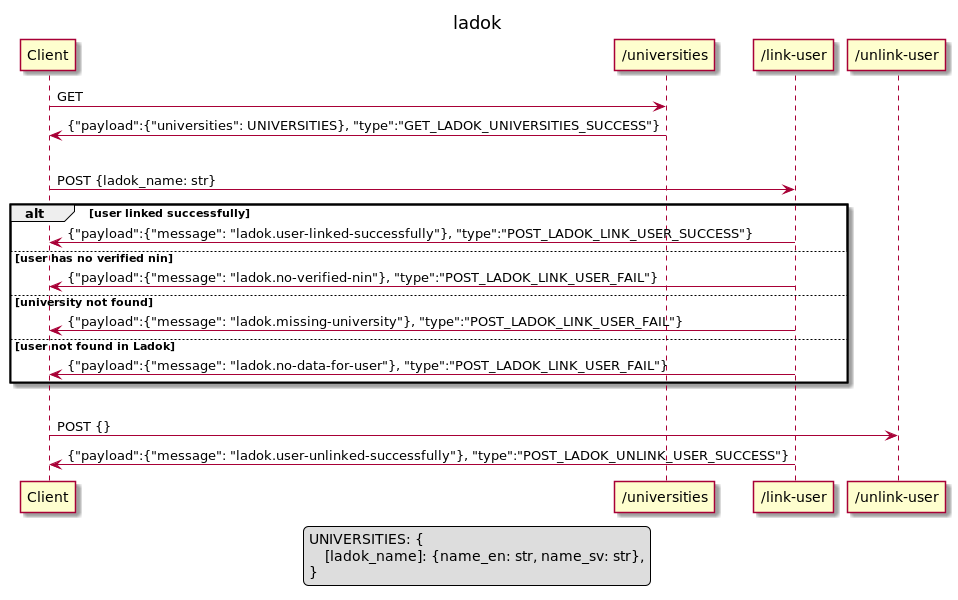
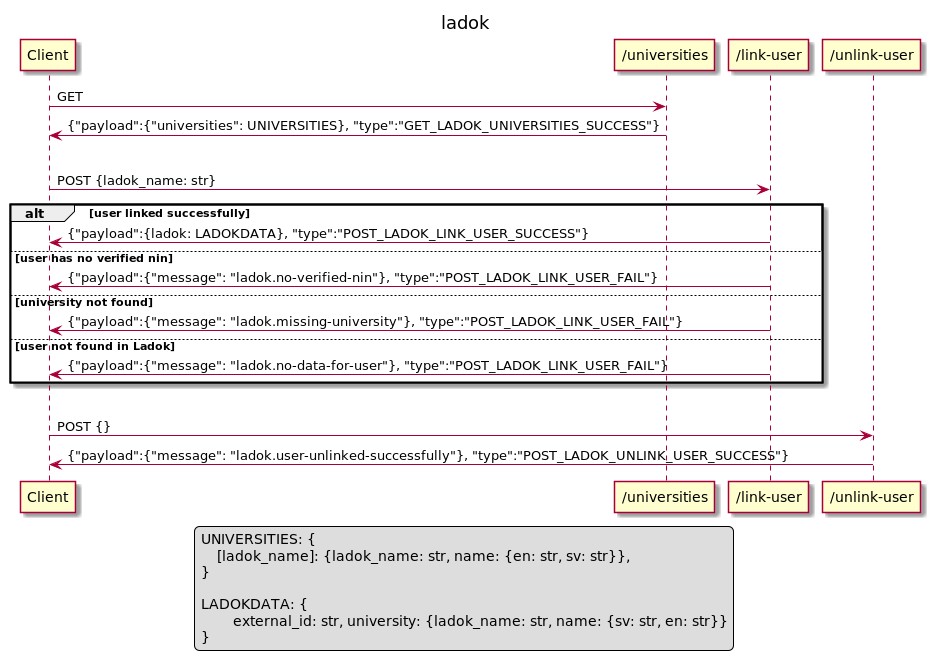
tweak ladok datamodels

Changed region(s): [[0.0, 0.03, 0.9946, 0.99], [0.4662, 0.03, 0.5284, 0.06]]

diff --git a/src/eduid/webapp/ladok/tests/test_app.py b/src/eduid/webapp/ladok/tests/test_app.py
@@ -1,13 +1,12 @@
 # -*- coding: utf-8 -*-
 import json
+from flask import Response
 from typing import Any, Dict, List, Mapping, Optional
 from unittest.mock import patch
 from uuid import UUID, uuid4
 
-from flask import Response
-
 from eduid.common.config.base import EduidEnvironment
-from eduid.userdb.ladok import Ladok, University
+from eduid.userdb.ladok import Ladok, University, UniversityName
 from eduid.webapp.common.api.testing import EduidAPITestCase
 
 __author__ = 'lundberg'
@@ -15,7 +14,6 @@ __author__ = 'lundberg'
 from eduid.webapp.ladok.app import LadokApp, init_ladok_app
 from eduid.webapp.ladok.client import Error, LadokUserInfo, LadokUserInfoResponse
 from eduid.webapp.ladok.helpers import LadokMsg
-from eduid.webapp.ladok.settings.common import LadokConfig
 
 
 class MockResponse(object):
@@ -98,8 +96,8 @@ class LadokTests(EduidAPITestCase):
             response = browser.get('/universities')
         expected_payload = {
             'universities': {
-                'ab': {'name_en': 'University Name', 'name_sv': 'Lärosätesnamn'},
-                'cd': {'name_en': 'Another University Name', 'name_sv': 'Annat Lärosätesnamn'},
+                'ab': {'ladok_name': 'ab', 'name': {'en': 'University Name', 'sv': 'Lärosätesnamn'}},
+                'cd': {'ladok_name': 'cd', 'name': {'en': 'Another University Name', 'sv': 'Annat Lärosätesnamn'}},
             }
         }
         self._check_success_response(response, type_='GET_LADOK_UNIVERSITIES_SUCCESS', payload=expected_payload)
@@ -128,8 +126,8 @@ class LadokTests(EduidAPITestCase):
         user = self.app.central_userdb.get_user_by_eppn(eppn=self.test_user_eppn)
         assert user.ladok.external_id == self.ladok_user_external_id
         assert user.ladok.university.ladok_name == ladok_name
-        assert user.ladok.university.name_sv == self.app.ladok_client.universities.names[ladok_name].name_sv
-        assert user.ladok.university.name_en == self.app.ladok_client.universities.names[ladok_name].name_en
+        assert user.ladok.university.name.sv == self.app.ladok_client.universities[ladok_name].name.sv
+        assert user.ladok.university.name.en == self.app.ladok_client.universities[ladok_name].name.en
 
         log_docs = self.app.proofing_log._get_documents_by_attr('eduPersonPrincipalName', self.test_user_eppn)
         assert 1 == len(log_docs)
@@ -172,7 +170,7 @@ class LadokTests(EduidAPITestCase):
         mock_request_user_sync.side_effect = self.request_user_sync
 
         # set ladok data for user
-        university = University(ladok_name='ab', name_sv='namn')
+        university = University(ladok_name='ab', name=UniversityName(sv='namn', en='name'))
         ladok = Ladok(external_id=self.ladok_user_external_id, university=university)
         user = self.app.central_userdb.get_user_by_eppn(eppn=self.test_user_eppn)
         user.ladok = ladok
@@ -223,7 +221,7 @@ class LadokDevTests(EduidAPITestCase):
         config['environment'] = EduidEnvironment.dev.value
         config['ladok_client'] = {
             'url': 'http://localhost',
-            'dev_universities': {'DEV': {'name_sv': 'Testlärosäte', 'name_en': 'Test University'}},
+            'dev_universities': {'DEV': {'sv': 'Testlärosäte', 'en': 'Test University'}},
         }
         config['magic_cookie_name'] = 'magic-cookie'
         config['magic_cookie'] = 'magic-cookie'
@@ -245,8 +243,8 @@ class LadokDevTests(EduidAPITestCase):
         user = self.app.central_userdb.get_user_by_eppn(eppn=self.test_user_eppn)
         assert user.ladok.external_id == UUID('00000000-1111-2222-3333-444444444444')
         assert user.ladok.university.ladok_name == ladok_name
-        assert user.ladok.university.name_sv == self.app.ladok_client.universities.names[ladok_name].name_sv
-        assert user.ladok.university.name_en == self.app.ladok_client.universities.names[ladok_name].name_en
+        assert user.ladok.university.name.sv == self.app.ladok_client.universities[ladok_name].name.sv
+        assert user.ladok.university.name.en == self.app.ladok_client.universities[ladok_name].name.en
 
         log_docs = self.app.proofing_log._get_documents_by_attr('eduPersonPrincipalName', self.test_user_eppn)
         assert 1 == len(log_docs)

diff --git a/src/eduid/webapp/ladok/client.py b/src/eduid/webapp/ladok/client.py
@@ -1,10 +1,9 @@
 # -*- coding: utf-8 -*-
 import logging
-from datetime import datetime
-from typing import Dict, Optional
-
 import requests
+from datetime import datetime
 from pydantic import AnyHttpUrl, BaseModel, Field, ValidationError
+from typing import Dict, Optional, Mapping
 
 __author__ = 'lundberg'
 
@@ -29,8 +28,8 @@ class LadokBaseModel(BaseModel):
 
 
 class UniversityName(LadokBaseModel):
-    name_sv: Optional[str] = Field(default=None, alias='long_name_sv')
-    name_en: Optional[str] = Field(default=None, alias='long_name_en')
+    sv: Optional[str] = Field(default=None, alias='long_name_sv')
+    en: Optional[str] = Field(default=None, alias='long_name_en')
 
 
 class UniversitiesData(LadokBaseModel):
@@ -60,16 +59,30 @@ class LadokClientConfig(LadokBaseModel):
     dev_universities: Optional[Dict[str, UniversityName]] = None  # used for local development
 
 
+class University(BaseModel):
+    ladok_name: str
+    name: UniversityName
+
+
 class LadokClient:
     def __init__(self, config: LadokClientConfig, env: EduidEnvironment):
         self.config = config
+        self.env = env
         self.base_endpoint = urlappend(self.config.url, f'/api/{self.config.version}')
-        if env is EduidEnvironment.dev and self.config.dev_universities is not None:
-            self.universities = UniversitiesData(names=self.config.dev_universities)
-        else:
-            self.universities = self.load_universities()
+        self.universities = self.load_universities()
 
-    def load_universities(self) -> UniversitiesData:
+    def load_universities(self) -> Mapping[str, University]:
+        if self.env is EduidEnvironment.dev and self.config.dev_universities is not None:
+            universities_data = self.config.dev_universities
+        else:
+            universities_data = self.get_universities().names
+
+        universities = {}
+        for key, value in universities_data.items():
+            universities[key] = University(ladok_name=key, name=value)
+        return universities
+
+    def get_universities(self) -> UniversitiesData:
         """
          path: /api/v1/schoolinfo
          reply:
@@ -123,7 +136,7 @@ class LadokClient:
            "error": null
          }
         """
-        if ladok_name not in self.universities.names:
+        if ladok_name not in self.universities:
             raise LadokClientException(f'university with Ladok name {ladok_name} not found')
 
         service_path = f'{ladok_name}/ladokinfo'

diff --git a/src/eduid/webapp/ladok/views.py b/src/eduid/webapp/ladok/views.py
@@ -5,7 +5,7 @@ from flask import Blueprint
 
 from eduid.common.config.base import EduidEnvironment
 from eduid.userdb import User
-from eduid.userdb.ladok import Ladok, University
+from eduid.userdb.ladok import Ladok, University, UniversityName
 from eduid.userdb.logs.element import LadokProofing
 from eduid.userdb.proofing import ProofingUser
 from eduid.webapp.common.api.decorators import MarshalWith, UnmarshalWith, require_user
@@ -36,7 +36,7 @@ def get_csrf(user: User) -> FluxData:
 @MarshalWith(UniversityInfoResponseSchema)
 @require_user
 def get_university_info(user: User) -> FluxData:
-    return success_response(payload={'universities': current_app.ladok_client.universities.names})
+    return success_response(payload={'universities': current_app.ladok_client.universities})
 
 
 @ladok_views.route('/link-user', methods=['POST'])
@@ -63,10 +63,12 @@ def link_user(user: User, ladok_name: str) -> FluxData:
         return error_response(message=LadokMsg.no_ladok_data)
 
     proofing_user = ProofingUser.from_user(user, current_app.private_userdb)
-    university = current_app.ladok_client.universities.names[ladok_name]
+    university = current_app.ladok_client.universities[ladok_name]
     ladok_data = Ladok(
         external_id=ladok_info.external_id,
-        university=University(ladok_name=ladok_name, name_sv=university.name_sv, name_en=university.name_en),
+        university=University(
+            ladok_name=university.ladok_name, name=UniversityName(sv=university.name.sv, en=university.name.en)
+        ),
         is_verified=True,
         verified_by='eduid-ladok',
     )

diff --git a/src/eduid/webapp/ladok/helpers.py b/src/eduid/webapp/ladok/helpers.py
@@ -4,7 +4,7 @@ from enum import unique
 from uuid import UUID, uuid4
 
 from eduid.userdb import User
-from eduid.userdb.ladok import Ladok, University
+from eduid.userdb.ladok import Ladok, University, UniversityName
 from eduid.userdb.logs.element import LadokProofing
 from eduid.userdb.proofing import ProofingUser
 from eduid.webapp.common.api.exceptions import AmTaskFailed
@@ -31,10 +31,9 @@ class LadokMsg(TranslatableMsg):
 
 def link_user_BACKDOOR(user: User, ladok_name: str) -> FluxData:
     proofing_user = ProofingUser.from_user(user, current_app.private_userdb)
-    names = current_app.ladok_client.universities.names.get(ladok_name)
-    if not names:
+    university = current_app.ladok_client.universities.get(ladok_name)
+    if not university:
         return error_response(message=LadokMsg.missing_university)
-    university = University(ladok_name=ladok_name, name_sv=names.name_sv, name_en=names.name_en)
 
     if ladok_name not in current_app.conf.dev_fake_users_in:
         current_app.logger.info(f'BACKDOOR: University {ladok_name} does not allow linking (not in dev_fake_users_in)')
@@ -42,7 +41,7 @@ def link_user_BACKDOOR(user: User, ladok_name: str) -> FluxData:
 
     ladok_data = Ladok(
         external_id=UUID('00000000-1111-2222-3333-444444444444'),
-        university=university,
+        university=University(ladok_name=ladok_name, name=UniversityName(sv=university.name.sv, en=university.name.en)),
         is_verified=True,
         verified_by='eduid-ladok',
     )

diff --git a/src/eduid/userdb/tests/test_ladok.py b/src/eduid/userdb/tests/test_ladok.py
@@ -6,7 +6,7 @@ from uuid import UUID, uuid4
 import pytest
 from pydantic import ValidationError
 
-from eduid.userdb.ladok import Ladok, University
+from eduid.userdb.ladok import Ladok, University, UniversityName
 
 __author__ = 'lundberg'
 
@@ -17,7 +17,7 @@ class LadokTest(TestCase):
 
     def test_create_ladok(self):
         university = University(
-            ladok_name='AB', name_sv='Lärosätesnamn', name_en='University Name', created_by='test created_by'
+            ladok_name='AB', name=UniversityName(sv='Lärosätesnamn', en='University Name'), created_by='test created_by'
         )
         ladok = Ladok(external_id=self.external_uuid, university=university, created_by='test created_by')
 
@@ -26,7 +26,7 @@ class LadokTest(TestCase):
         self.assertIsNotNone(ladok.created_ts)
 
         self.assertEqual(ladok.university.ladok_name, 'AB')
-        self.assertEqual(ladok.university.name_sv, 'Lärosätesnamn')
-        self.assertEqual(ladok.university.name_en, 'University Name')
+        self.assertEqual(ladok.university.name.sv, 'Lärosätesnamn')
+        self.assertEqual(ladok.university.name.en, 'University Name')
         self.assertEqual(ladok.university.created_by, 'test created_by')
         self.assertIsNotNone(ladok.university.created_ts)

diff --git a/src/eduid/webapp/ladok/schemas.py b/src/eduid/webapp/ladok/schemas.py
@@ -3,20 +3,15 @@ from marshmallow import fields
 
 from eduid.webapp.common.api.schemas.base import EduidSchema, FluxStandardAction
 from eduid.webapp.common.api.schemas.csrf import CSRFRequestMixin, CSRFResponseMixin
-from eduid.webapp.common.api.schemas.ladok import LadokSchema
+from eduid.webapp.common.api.schemas.ladok import LadokSchema, University
 from eduid.webapp.common.api.schemas.validators import validate_nin
 
 __author__ = 'lundberg'
 
 
-class UniversityNames(EduidSchema):
-    name_sv = fields.String()
-    name_en = fields.String(allow_none=True)
-
-
 class UniversityInfoResponseSchema(FluxStandardAction):
     class UniversityInfoPayload(EduidSchema, CSRFResponseMixin):
-        universities = fields.Dict(keys=fields.String(), values=fields.Nested(UniversityNames()))
+        universities = fields.Dict(keys=fields.String(), values=fields.Nested(University()))
 
     payload = fields.Nested(UniversityInfoPayload)
 

diff --git a/src/eduid/webapp/common/api/schemas/ladok.py b/src/eduid/webapp/common/api/schemas/ladok.py
@@ -7,12 +7,16 @@ from eduid.webapp.common.api.schemas.base import EduidSchema
 __author__ = 'lundberg'
 
 
-class UniversitySchema(EduidSchema):
+class UniversityName(EduidSchema):
+    sv = fields.String()
+    en = fields.String()
+
+
+class University(EduidSchema):
     ladok_name = fields.String()
-    name_sv = fields.String()
-    name_en = fields.String()
+    name = fields.Nested(UniversityName())
 
 
 class LadokSchema(EduidSchema):
     external_id = fields.String()
-    university = fields.Nested(UniversitySchema())
+    university = fields.Nested(University())

diff --git a/src/eduid/userdb/ladok.py b/src/eduid/userdb/ladok.py
@@ -1,6 +1,7 @@
 # -*- coding: utf-8 -*-
 from __future__ import annotations
 
+from pydantic import BaseModel
 from typing import Optional
 from uuid import UUID
 
@@ -9,11 +10,15 @@ from eduid.userdb.element import Element, ElementKey, VerifiedElement
 __author__ = 'lundberg'
 
 
+class UniversityName(BaseModel):
+    sv: str
+    en: str
+
+
 class University(Element):
 
-    ladok_name: str  # university name abbreviation
-    name_sv: str
-    name_en: Optional[str]
+    ladok_name: str
+    name: UniversityName
 
     @property
     def key(self) -> ElementKey:

diff --git a/src/eduid/userdb/fixtures/ladok.py b/src/eduid/userdb/fixtures/ladok.py
@@ -1,14 +1,14 @@
 # -*- coding: utf-8 -*-
 from uuid import UUID
 
-from eduid.userdb.ladok import Ladok, University
+from eduid.userdb.ladok import Ladok, University, UniversityName
 
 __author__ = 'lundberg'
 
 
 dashboard_ladok = Ladok(
     external_id=UUID('00000000-1111-2222-3333-444444444444'),
-    university=University(ladok_name='DEV', name_sv='Testlärosäte', name_en='Test University'),
+    university=University(ladok_name='DEV', name=UniversityName(sv='Testlärosäte', en='Test University')),
     is_verified=True,
     verified_by='eduid-ladok',
 )

diff --git a/src/eduid/webapp/personal_data/tests/test_app.py b/src/eduid/webapp/personal_data/tests/test_app.py
@@ -165,7 +165,7 @@ class PersonalDataTests(EduidAPITestCase):
             'given_name': 'John',
             'ladok': {
                 'external_id': '00000000-1111-2222-3333-444444444444',
-                'university': {'ladok_name': 'DEV', 'name_en': 'Test University', 'name_sv': 'Testlärosäte'},
+                'university': {'ladok_name': 'DEV', 'name': {'en': 'Test University', 'sv': 'Testlärosäte'}},
             },
             'language': 'en',
             'nins': [
